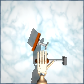
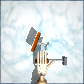
Adding new views top-right, top-front for Adroit Hammer

Changed region(s): [[0.3571, 0.381, 0.5952, 0.619], [0.3095, 0.3095, 0.4048, 0.5]]

diff --git a/notebooks/test_multiview_ardoit.py b/notebooks/test_multiview_ardoit.py
@@ -15,7 +15,7 @@ def test_adroit_cameras():
     # cam_list = ['fixed', 'vil_camera', 'top', 'front', 'front_right', 'right', 'back_right', 'back', 'back_left', 'left', 'front_left']
     # cam_list = ['fixed', 'vil_camera', 'top', 'high_front', 'high_front_right', 'high_right', 'high_back_right', 'high_back', 'high_back_left', 'high_left', 'high_front_left']
     # cam_list = ['low_front', 'low_right', 'low_back', 'low_left']
-    cam_list = ['top', 'right', 'left', 'front', 'back',]
+    cam_list = ['top', 'right', 'front', 'top-right', 'top-front', 'left', 'back']
 
     # Initialize environment with all cameras
     env = AdroitEnv(
